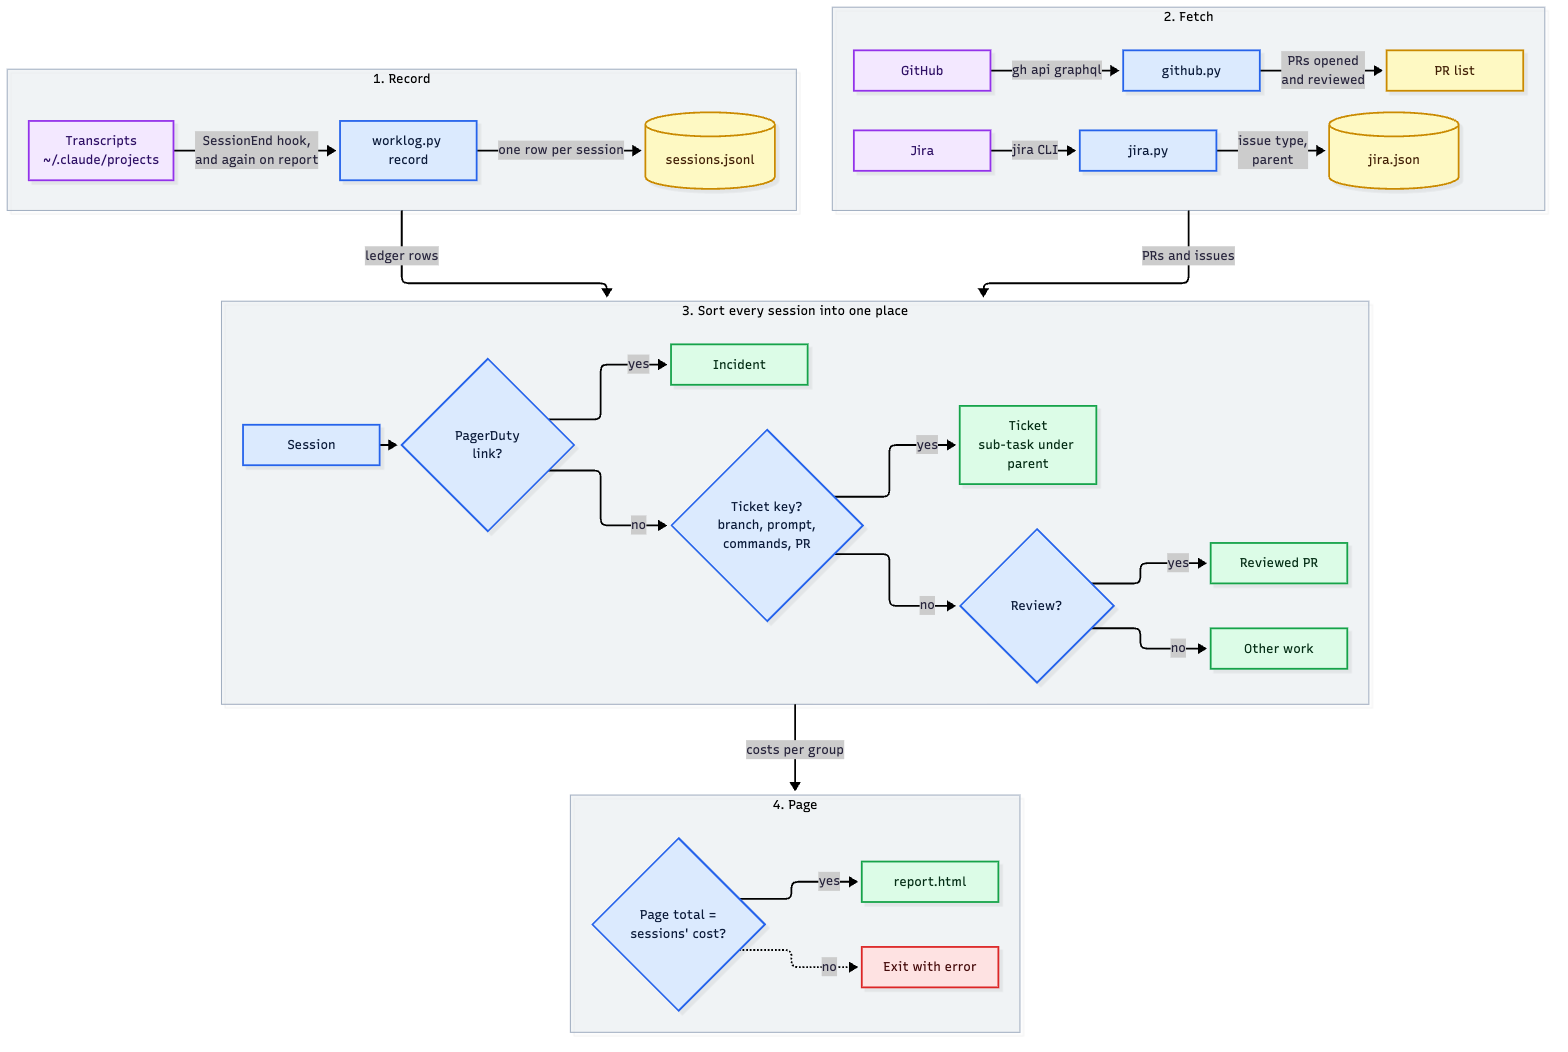
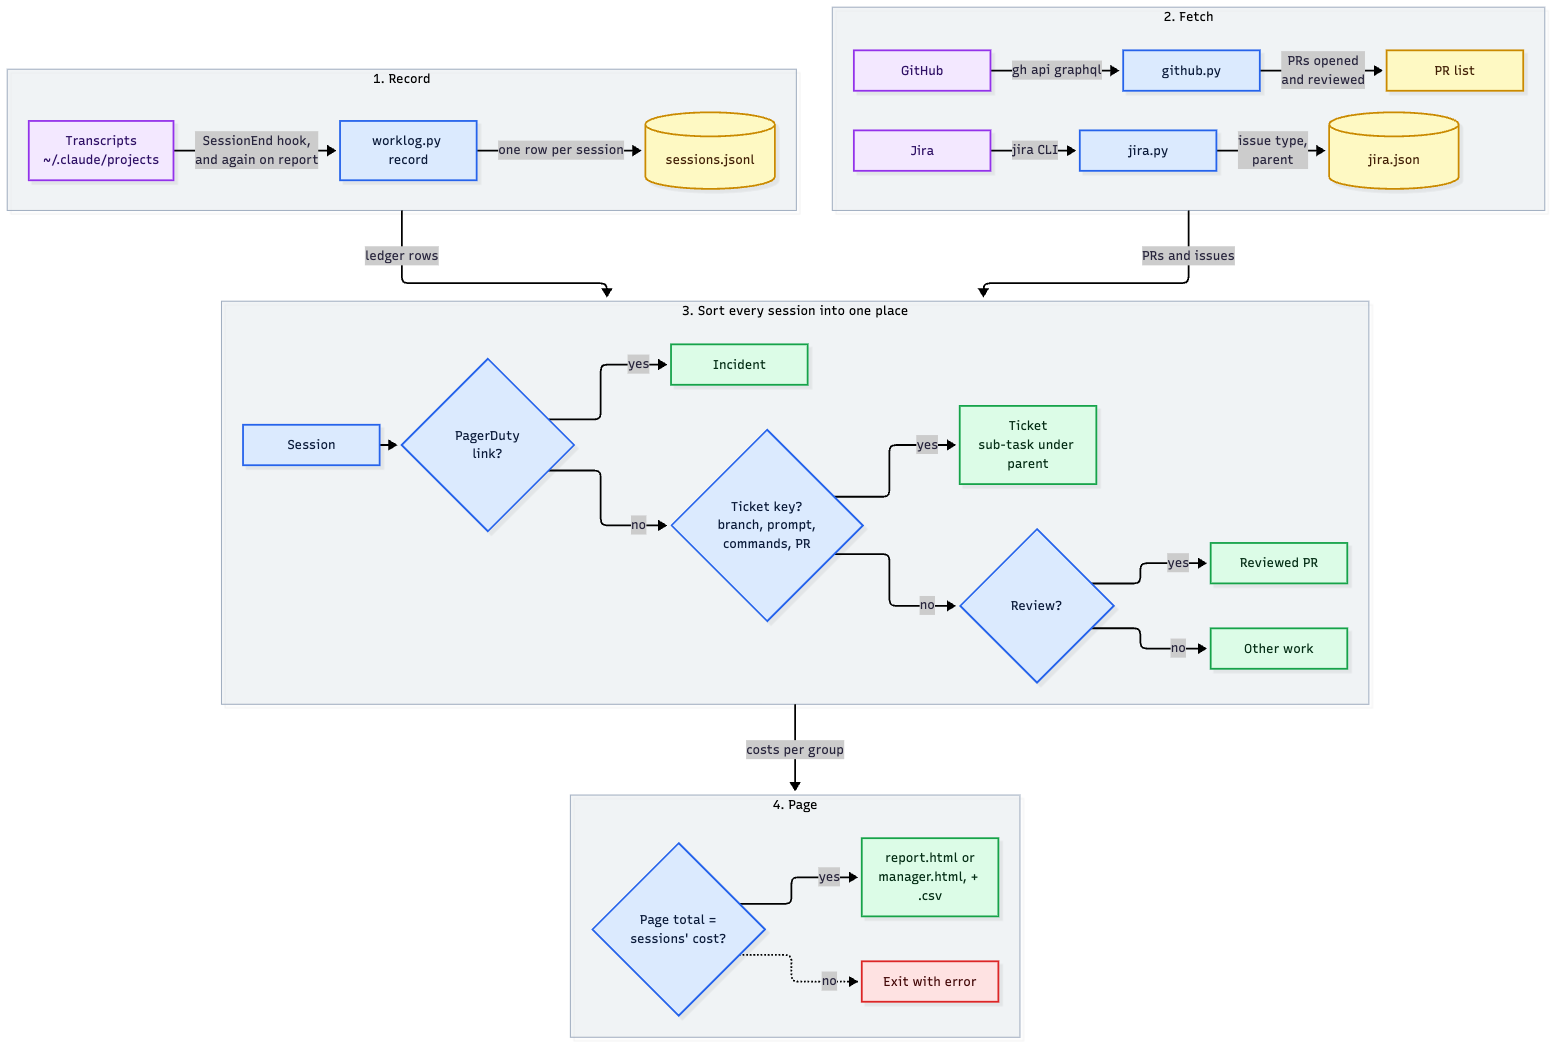
worklog: efficiency vs last month, tokens and cache hit rate per model, --manager page, CSV, PR titles per ticket, stable share link, tests in CI

diff --git a/skills/worklog/worklog.py b/skills/worklog/worklog.py
@@ -2,9 +2,11 @@
 """Keeps a ledger of Claude Code sessions and writes a one-page work summary from it.
 
   worklog.py record                            SessionEnd hook: appends the session on stdin to the ledger
-  worklog.py report [period] [--no-cost] [--no-usage]
-      Records every transcript still in ~/.claude/projects, writes <DEV_DIR>/worklog/report.html, opens it
-      and prints the counts. period: empty for this month, last-month, or a first day YYYY-MM-DD.
+  worklog.py report [period] [--no-cost] [--no-usage] [--manager]
+      Records every transcript still in ~/.claude/projects, writes <DEV_DIR>/worklog/report.html (manager.html
+      with --manager) and a .csv of the tickets beside it, opens the page and prints the counts.
+      period: empty for this month, last-month, or a first day YYYY-MM-DD. --manager leaves out costs, usage,
+      the overview and other work.
 
 Data: <DEV_DIR>/worklog, with sessions.jsonl (the ledger) and jira.json (the issue cache).
 github.py and jira.py fetch pull requests and issues; each runs on its own too.
@@ -16,6 +18,7 @@ SUPPORT_PREFIXES = []  # the prefixes of support tickets
 EXCLUDE_REPOS = []  # repos (folder or GitHub name) the report leaves out, such as personal ones
 DEV_DIR = "~/dev"  # the folder that holds the repos; the data lives in <DEV_DIR>/worklog
 
+import csv
 import html
 import json
 import os
@@ -44,6 +47,8 @@ PR_URL = re.compile(r"https://github\.com/[\w.-]+/([\w.-]+)/pull/(\d+)")
 PR_CMD = re.compile(r"gh pr (?:diff|review|checkout|view) +#?(\d+)\b(?:.*?(?:--repo|-R)[ =][\w.-]+/([\w.-]+))?")
 ALERT = re.compile(r"https://[\w-]+\.pagerduty\.com/", re.I)
 CONTEXT_FIELDS = ("input_tokens", "cache_creation_input_tokens", "cache_read_input_tokens")
+TOKENS = {"in": "input_tokens", "out": "output_tokens", "write": "cache_creation_input_tokens",
+          "read": "cache_read_input_tokens"}
 BIG_CONTEXT = 100_000  # tokens
 # API list prices in USD per million tokens: input, output, cache read. A cache write costs 1.25x input
 # for 5 minutes, 2x for 1 hour; fast mode costs 2x. An id not listed is priced as claude-opus-5-5.
@@ -52,6 +57,7 @@ PRICES = {"claude-opus-5-5": (4, 20, 0.20), "claude-opus-5": (5, 25, 0.50), "cla
 STATUS = {"merged": "✓ Merged", "closed": "✕ Closed, not merged", "open": "○ Open", "draft": "○ Draft"}
 SHOW_COST = True  # report --no-cost turns it off
 SHOW_USAGE = True  # report --no-usage turns it off
+FOR_MANAGER = False  # report --manager: no costs, no usage, no overview or other work
 
 
 # ---- ledger
@@ -118,7 +124,7 @@ class Session:
         blocks = content if isinstance(content, list) else [{"type": "text", "text": content or ""}]
         if d.get("type") == "assistant":
             if msg.get("usage"):  # a reply is written once per content block, each time with the same usage
-                self.usage[msg.get("id")] = {**msg["usage"], "model": msg.get("model")}
+                self.usage[msg.get("id")] = {**msg["usage"], "model": msg.get("model"), "side": bool(d.get("isSidechain"))}
                 if not d.get("isSidechain"):
                     self.contexts[msg.get("id")] = sum(msg["usage"].get(f) or 0 for f in CONTEXT_FIELDS)
             for b in blocks:
@@ -157,11 +163,17 @@ class Session:
         row["pulls"] = pulls_named(said + "\n" + commands)
         row["alert"] = bool(ALERT.search(said))
         row["review"] |= bool(REVIEW.search(said))
-        models = defaultdict(float)
+        models, tokens = defaultdict(float), {}
         for u in self.usage.values():
-            models[family(u.get("model"))] += price(u)
+            m = family(u.get("model"))
+            models[m] += price(u)
+            t = tokens.setdefault(m, dict.fromkeys(TOKENS, 0))
+            for name, field in TOKENS.items():
+                t[name] += u.get(field) or 0
         row["models"] = {m: round(usd, 4) for m, usd in models.items()}
         row["cost"] = round(sum(models.values()), 4)
+        row["tokens_by_model"] = tokens
+        row["subagent_cost"] = round(sum(price(u) for u in self.usage.values() if u["side"]), 4)
         sizes = list(self.contexts.values()) or [0]
         row["context"] = {"peak": max(sizes), "avg": sum(sizes) // len(sizes), "compactions": self.compactions}
         return row
@@ -338,6 +350,38 @@ def load(since, until):
     return [r for r in rows if repo_of(r) not in EXCLUDE_REPOS], excluded
 
 
+def month_before(day_):
+    """The same day a month earlier, or the month's last day when it has no such day."""
+    d = date.fromisoformat(day_)
+    first = (d.replace(day=1) - timedelta(days=1)).replace(day=1)
+    last = d.replace(day=1) - timedelta(days=1)
+    return str(first.replace(day=min(d.day, last.day)))
+
+
+def measures(rows):
+    """What the sessions cost and how efficiently, from the ledger alone: tokens per model, cache hit rate
+    (cache reads over all input), and the shares of cost in sessions past BIG_CONTEXT, in subagents and in
+    sessions that changed nothing. Rows recorded before tokens were kept count for cost only."""
+    total = sum(cost(r) for r in rows) or 0.0
+    tokens = defaultdict(lambda: dict.fromkeys(TOKENS, 0))
+    for r in rows:
+        for model, t in r.get("tokens_by_model", {}).items():
+            for name in TOKENS:
+                tokens[model][name] += t[name]
+    sent = sum(t["in"] + t["read"] + t["write"] for t in tokens.values())
+
+    def share(field, part):
+        """A share of cost over the rows that recorded field; None when none did."""
+        known = [r for r in rows if field in r]
+        whole = sum(cost(r) for r in known)
+        return sum(part(r) for r in known) / whole if whole else None
+    return {"cost": total, "sessions": len(rows), "tokens": {m: t for m, t in tokens.items() if any(t.values())},
+            "cache_hit": sum(t["read"] for t in tokens.values()) / sent if sent else None,
+            "big": share("context", lambda r: cost(r) if r["context"]["peak"] > BIG_CONTEXT else 0),
+            "subagents": share("subagent_cost", lambda r: r["subagent_cost"]),
+            "idle": share("edits", lambda r: 0 if r["edits"] or r["review"] or r["alert"] else cost(r))}
+
+
 def collect(since, until):
     """Everything the report shows, as plain data. Every session lands in exactly one place."""
     append(sorted((Path.home() / ".claude" / "projects").glob("*/*.jsonl")))
@@ -398,6 +442,7 @@ def collect(since, until):
     return {"since": since, "last": until, "incidents": incidents, "other": other, "prs": prs,
             "reviews": reviews, "sessions": len(rows), "total": sum(cost(r) for r in rows), "excluded": excluded,
             "usage": {**usage_of(rows), "since": since, "until": until},
+            "measures": measures(rows), "before": measures(load(month_before(since), month_before(until))[0]),
             "tickets": [t for t in tickets.values() if not is_support(t.key)],
             "support": [t for t in tickets.values() if is_support(t.key)]}
 
@@ -559,8 +604,10 @@ def ticket_boxes(tickets, slot):
                 + [worked_on(w.days), pr_links(w.prs), model_split(w.models), money(w.cost)] for w in works]
         name = f"{t.key} {t.own.summary}".strip()
         title = [tag("a", name, href=jira_link(t.key))] if JIRA_URL else name
+        titles = list(dict.fromkeys(pr["title"] for w in works for pr in w.prs))
         intro = f"Repos: {', '.join(t.repos)}." if t.repos else ""
-        intro += " The total includes the sub-tasks." if t.subs else ""
+        intro += f" Pull requests: {'; '.join(titles)}." if titles else ""
+        intro += " The total includes the sub-tasks." if t.subs and SHOW_COST else ""
         boxes.append(section(title, intro.strip(), grid(head, rows, [""] + ["sub"] * len(t.subs)),
                              total=t.cost, slot=slot))
     return boxes
@@ -741,6 +788,46 @@ def usage_sections(usage):
     return context, section("Claude Code usage", intro, *charts, *tables)
 
 
+def amount(n):
+    """1234567 as 1.2M, 45678 as 46k."""
+    return f"{n / 1e6:.1f}M" if n >= 1e6 else f"{n / 1e3:.0f}k" if n >= 1e3 else str(n)
+
+
+def efficiency_section(data):
+    """How efficiently the sessions ran, against the same days a month earlier, then tokens per model."""
+    now, before = data["measures"], data["before"]
+    merged = sum(pr["status"] == "merged" for pr in data["prs"]["opened"])
+    done = [t for t in data["tickets"] + data["support"] if t.resolved]
+
+    def pct(v):
+        return "-" if v is None else f"{v:.0%}"
+
+    def points(a, b):
+        return "-" if a is None or b is None else f"{round((a - b) * 100):+d} pts".replace("+0 ", "0 ")
+    rows = [["Sessions", now["sessions"], before["sessions"] or "-",
+             f"{now['sessions'] - before['sessions']:+d}" if before["sessions"] else "-"],
+            ["Cache hit rate (cache reads / all input)", pct(now["cache_hit"]), pct(before["cache_hit"]),
+             points(now["cache_hit"], before["cache_hit"])]]
+    if SHOW_COST:
+        change = f"{now['cost'] / before['cost'] - 1:+.0%}" if before["cost"] else "-"
+        rows = [["Cost", money(now["cost"]), money(before["cost"]), change]] + rows + [
+            ["Cost per merged pull request", money(now["cost"] / merged) if merged else "-", "-", "-"],
+            ["Cost per resolved ticket", money(sum(t.cost for t in done) / len(done)) if done else "-", "-", "-"]]
+    rows += [[label, pct(now[k]), pct(before[k]), points(now[k], before[k])]
+             for label, k in (("Share of cost in sessions past 100k context", "big"),
+                              ("Share of cost in subagents", "subagents"),
+                              ("Share of cost in sessions that changed nothing", "idle"))]
+    models = sorted(now["tokens"].items(), key=lambda item: (MODEL_SLOTS.get(item[0], 99), item[0]))
+    tokens = grid(["Model", "Input", "Output", "Cache read", "Cache write", "Cache hit rate"],
+                  [[[dot(MODEL_SLOTS.get(m, 0)) + html.escape(m)], amount(t["in"]), amount(t["out"]), amount(t["read"]),
+                    amount(t["write"]), pct(t["read"] / max(t["in"] + t["read"] + t["write"], 1))] for m, t in models])
+    return section("Efficiency", f"This period against the same days a month earlier "
+                                 f"({day(month_before(data['since']))} to {day(month_before(data['last']))}). "
+                                 "Rows recorded before tokens were kept count for cost only.",
+                   grid(["Measure", "This period", "Month before", "Change"], rows),
+                   tag("h3", "Tokens per model"), tokens)
+
+
 def page(data, group, name="report.html"):
     prs = data["prs"]
 
@@ -751,9 +838,10 @@ def page(data, group, name="report.html"):
                            tag("p", f"{day(data['since'])} to {day(data['last'])}", class_="period")]),
             tag("div", [tag("div", [tag("strong", number), tag("span", label)], class_="tile")
                         for number, label in headline(data, group)], class_="tiles"),
-            context,
-            section("Overview", "Where the work went, by kind. A share is the group's part of the session cost, "
-                                "the closest measure of effort the records hold.", overview(list(group.values())))]
+            context, efficiency_section(data) if SHOW_USAGE else "",
+            "" if FOR_MANAGER else section("Overview", "Where the work went, by kind. A share is the group's part "
+                                                       "of the session cost, the closest measure of effort the records "
+                                                       "hold.", overview(list(group.values())))]
     for gid in ("tickets", "support"):
         if data[gid]:
             body += ticket_boxes(data[gid], group[gid]["slot"])
@@ -768,7 +856,7 @@ def page(data, group, name="report.html"):
             ["Opened", "Pull request", "Status"],
             [[day(pr["date"]), (pr["title"], pr["url"], pr["repo"]), status_cell(pr["status"])]
              for pr in without_ticket])))
-    if data["other"]:
+    if data["other"] and not FOR_MANAGER:
         body.append(boxed("other", "Other work", "Sessions with no Jira ticket, incident or review behind them, by repo.",
                           grid(["Repo", "Worked on", "Cost"],
                                [[repo, worked_on(o["days"]), money(o["cost"])]
@@ -802,23 +890,45 @@ def period(arg):
     return (arg or str(today.replace(day=1))), str(today)
 
 
+def write_csv(data, file):
+    """One row per ticket and sub-task, for a spreadsheet; no cost column when costs are left out."""
+    with file.open("w", newline="") as out:
+        rows = csv.writer(out)
+        rows.writerow(["ticket", "parent", "type", "summary", "first day", "last day", "days", "pull requests"]
+                      + (["cost USD"] if SHOW_COST else []))
+        for t in sorted(data["tickets"] + data["support"], key=lambda t: -t.cost):
+            for w in [t.own, *t.subs.values()]:
+                days = sorted(w.days)
+                rows.writerow([w.key, "" if w is t.own else t.key, w.type, w.summary, days[0] if days else "",
+                               days[-1] if days else "", len(days), " ".join(pr["url"] for pr in w.prs)]
+                              + ([f"{w.cost:.2f}"] if SHOW_COST else []))
+    return file
+
+
 def report(args):
-    global SHOW_COST, SHOW_USAGE
-    SHOW_COST, SHOW_USAGE = "--no-cost" not in args, "--no-usage" not in args
+    global SHOW_COST, SHOW_USAGE, FOR_MANAGER
+    FOR_MANAGER = "--manager" in args
+    SHOW_COST = "--no-cost" not in args and not FOR_MANAGER
+    SHOW_USAGE = "--no-usage" not in args and not FOR_MANAGER
     data = collect(*period(next((a for a in args if not a.startswith("--")), "")))
     group = groups(data)
     shown = sum(g["cost"] for g in group.values())
     if abs(shown - data["total"]) > 0.01:  # a session left off the page is a bug
         sys.exit(f"the page shows ${shown:.2f} but the sessions cost ${data['total']:.2f}")
-    file = page(data, group)
+    file = page(data, group, "manager.html" if FOR_MANAGER else "report.html")
+    table = write_csv(data, file.with_suffix(".csv"))
     print(f"{day(data['since'])} to {day(data['last'])}: "
           + ", ".join(f"{number} {label}" for number, label in headline(data, group)))
     print(f"All {data['sessions']} sessions are on the page, ${data['total']:.2f}"
           + (f"; exclude_repos left out ${data['excluded']:.2f}" if data["excluded"] else ""))
+    m = data["measures"]
+    if m["cache_hit"] is not None:
+        print(f"Cache hit rate {m['cache_hit']:.0%}; past 100k context {m['big'] or 0:.0%} of cost")
     top = sorted(data["usage"].get("skill", {}).items(), key=lambda item: (-item[1][0], item[0]))[:3]
     if top:
         print("Top skills: " + ", ".join(f"{name} {n}" for name, (n, _) in top))
     print(f"Page: {file}")
+    print(f"CSV: {table}")
     webbrowser.open(file.as_uri())
 
 

diff --git a/skills/worklog/test_worklog.py b/skills/worklog/test_worklog.py
@@ -1,0 +1,70 @@
+"""Tests for worklog.py on made-up sessions, pull requests and Jira issues: python3 -m unittest test_worklog"""
+import json
+import re
+import tempfile
+import unittest
+from pathlib import Path
+
+import worklog as w
+
+ISSUES = {"ABC-1": {"summary": "Export", "type": "Story", "subtask": False, "parent": ""},
+          "ABC-2": {"summary": "CSV", "type": "Sub-task", "subtask": True, "parent": "ABC-1"},
+          "ABC-9": {"summary": "Billing", "type": "Epic", "subtask": False, "parent": ""}}
+
+
+def session(n, keys=(), cost=1.0, edits=True, review=False, branches=("main",), pulls=(), repo="api"):
+    return {"id": f"s{n}", "start": f"2026-11-{n:02d}T09:00:00Z", "cwd": str(w.DEV / repo), "title": "", "prompt": "",
+            "keys": list(keys), "branches": list(branches), "edits": edits, "review": review, "alert": False,
+            "pulls": list(pulls), "cost": cost, "models": {"Opus": cost}, "subagent_cost": 0.0,
+            "context": {"peak": 50_000, "avg": 30_000, "compactions": 0},
+            "tokens_by_model": {"Opus": {"in": 10, "out": 10, "read": 80, "write": 10}}}
+
+
+def pr(n, text, branch, author="me", status="merged"):
+    return {"date": "2026-11-05", "repo": "api", "title": f"PR {n}", "url": f"https://github.com/acme/api/pull/{n}",
+            "status": status, "author": author, "branch": branch, "text": text}
+
+
+class Report(unittest.TestCase):
+    def collect(self, rows, opened=(), reviewed=(), resolved=()):
+        tmp = Path(tempfile.mkdtemp())
+        w.DATA, w.LEDGER = tmp, tmp / "sessions.jsonl"
+        w.LEDGER.write_text("\n".join(json.dumps(r) for r in rows))
+        w.KEY, w.PREFIXES, w.SUPPORT = re.compile(r"\b(?:ABC)-\d+\b", re.I), "ABC", set()
+        w.append = lambda paths: None
+        w.pull_requests = lambda since, until: {"opened": list(opened), "reviewed": list(reviewed)}
+        w.jira.issue = lambda key: ISSUES[key]
+        w.jira.resolved = lambda since, until: list(resolved)
+        return w.collect("2026-11-01", "2026-11-30")
+
+    def test_sub_task_counts_for_its_parent_with_its_own_cost(self):
+        data = self.collect([session(1, ["ABC-1"], 2.0), session(2, ["abc-2"], 3.0)], resolved=["ABC-2"])
+        (t,) = data["tickets"]
+        self.assertEqual((t.key, t.cost, t.own.cost), ("ABC-1", 5.0, 2.0))
+        self.assertEqual((t.subs["ABC-2"].cost, t.subs["ABC-2"].resolved, t.resolved), (3.0, True, False))
+
+    def test_ticket_wins_over_an_epic_named_with_it(self):
+        (t,) = self.collect([session(1, ["ABC-9", "ABC-1"])])["tickets"]
+        self.assertEqual(t.key, "ABC-1")
+
+    def test_session_takes_the_ticket_of_the_pull_request_from_its_branch(self):
+        data = self.collect([session(1, branches=["feature-x"])], opened=[pr(4, "fixes ABC-1", "feature-x")])
+        self.assertEqual([t.key for t in data["tickets"]], ["ABC-1"])
+
+    def test_review_session_costs_go_to_the_pull_request_it_names(self):
+        data = self.collect([session(1, edits=False, review=True, pulls=["#7"], repo="scratch")],
+                            reviewed=[pr(7, "", "b", author="teammate")])
+        self.assertEqual((data["prs"]["reviewed"][0]["cost"], data["reviews"]["unlinked"]), (1.0, 0.0))
+
+    def test_no_session_is_dropped(self):
+        rows = [session(1, ["ABC-1"]), session(2, edits=False), session(3, repo="tools")]
+        data = self.collect(rows)
+        self.assertAlmostEqual(sum(g["cost"] for g in w.groups(data).values()), data["total"])
+        self.assertEqual(data["measures"]["cache_hit"], 0.8)
+
+    def test_month_before_keeps_the_day_or_takes_the_last(self):
+        self.assertEqual((w.month_before("2026-11-23"), w.month_before("2026-03-31")), ("2026-10-23", "2026-02-28"))
+
+
+if __name__ == "__main__":
+    unittest.main()

diff --git a/skills/worklog/SKILL.md b/skills/worklog/SKILL.md
@@ -8,13 +8,13 @@ disable-model-invocation: true
 
 Arguments passed: $ARGUMENTS
 
-Run `python3 worklog.py report [period] [--no-cost] [--no-usage]` from this skill's folder.
+Run `python3 worklog.py report [period] [--no-cost] [--no-usage] [--manager]` from this skill's folder.
 
 - period: empty for this month, `last-month` when the arguments ask for last month (in any language), or a first day such as `2026-07-01`.
-- `--no-cost` when they ask to leave costs out, such as for a page to share; `--no-usage` when they ask to leave out the Claude Code usage and context.
+- `--no-cost` when they ask to leave costs out, such as for a page to share; `--no-usage` when they ask to leave out the Claude Code usage and context; `--manager` when the page is for a manager (no costs, usage, overview or other work).
 
-The script writes the page, opens it and prints a few lines. Pass those lines on; do not read the page.
+The script writes the page and a CSV of the tickets, opens the page and prints a few lines. Pass those lines on; do not read the page.
 
-Only when the arguments include `share`: after the report, read the page printed after `Page:` and publish it with the Artifact tool (icon `chart`), then give the link. It is private until the user shares it. Without `share`, nothing leaves the machine; the shell alias `worklog` runs the same script with no model.
+Only when the arguments include `share`: after the report, read the page printed after `Page:` and publish it with the Artifact tool (icon `chart`), then give the link. Keep one link per page: `<DEV_DIR>/worklog/share.json` maps the page's file name to its artifact URL; when it has one, read that artifact and publish to its URL, otherwise publish a new one and write its URL there. It is private until the user shares it. Without `share`, nothing leaves the machine; the shell alias `worklog` runs the same script with no model.
 
 Settings are the constants at the top of `worklog.py`: `JIRA_URL`, `JIRA_PREFIXES` (every Jira project whose keys you use), `SUPPORT_PREFIXES`, `EXCLUDE_REPOS`; the repo holds placeholders. `github.py` and `jira.py` fetch pull requests and issues; each runs on its own. A `SessionEnd` hook runs `worklog.py record`. When the user asks why a session landed where it did, read the docstrings of `collect`, `ticket` and `Jira.pick`.
